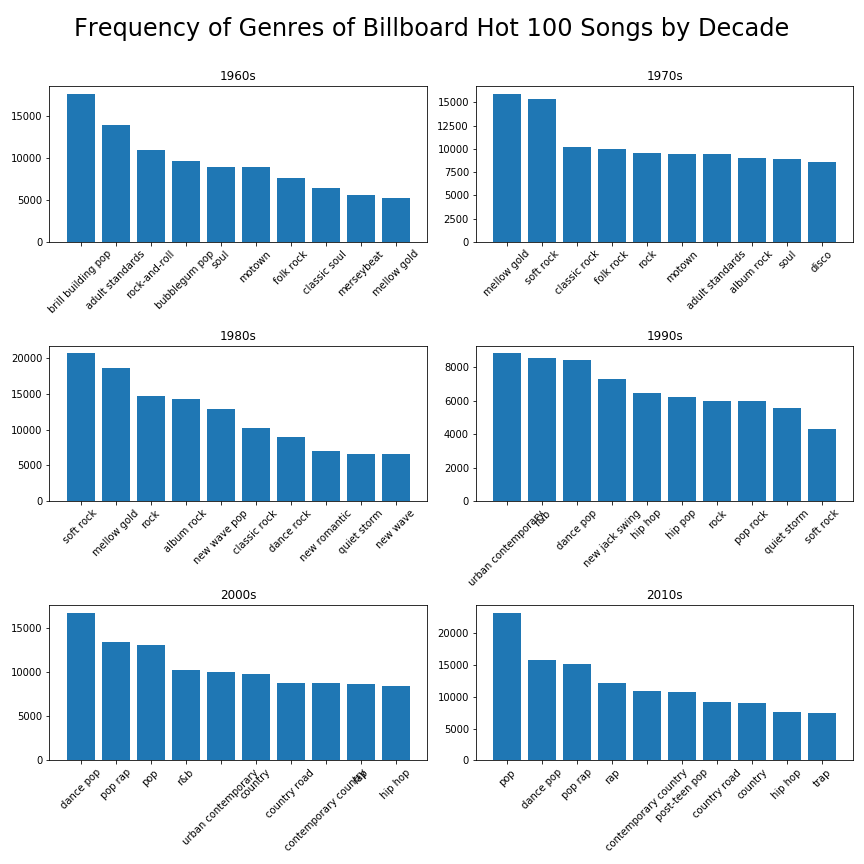
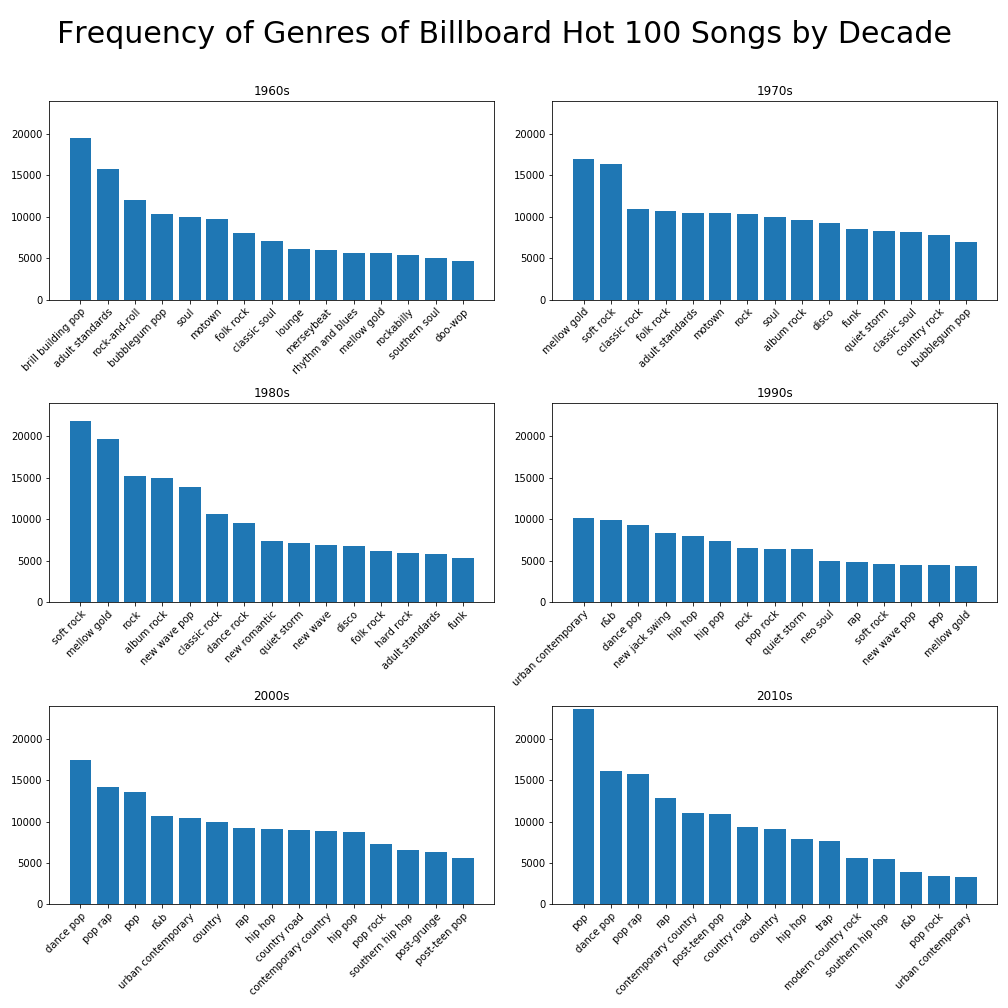
fixed histograms and readme

diff --git a/spotify-billboard-analysis.py b/spotify-billboard-analysis.py
@@ -2,7 +2,7 @@ import numpy as np
 import pandas as pd
 import matplotlib.pyplot as plt
 
-# Import csvs and remove unnecessary columns
+# Import csvs and remove null rows and unnecessary columns
 weeks = pd.read_csv("data/hot-stuff.csv", converters={'WeekID': lambda d: pd.to_datetime(d, \
                     format="%m/%d/%Y", errors="coerce")})
 weeksFilter = ['url', 'Instance', 'Previous Week Position', 'Peak Position',
@@ -12,6 +12,7 @@ weeks.drop(weeksFilter, axis=1, inplace=True)
 features = pd.read_csv("data/hot-100-audio-features.csv", converters={'spotify_genre':
                         lambda s: s[1:-1].split(', ')}, encoding="latin-1")
 features['spotify_genre'] = features['spotify_genre'].apply(lambda l: [s[1:-1] for s in l])
+features.dropna(subset=['spotify_genre'])
 featuresFilter = ['spotify_track_id', 'spotify_track_preview_url', 'spotify_track_album',
                   'spotify_track_popularity', 'key', 'mode', 'time_signature']
 features.drop(featuresFilter, axis=1, inplace=True)
@@ -44,33 +45,37 @@ joined = weeks.merge(features, on='SongID')
 joined.to_csv("data/joined.csv", index=False)
 
 featureGenres = features.explode('spotify_genre')
-featureGenres = featureGenres[featureGenres.spotify_genre != ''].dropna()
+featureGenres = featureGenres[featureGenres.spotify_genre != '']
 
 joinedGenres = joined.explode('spotify_genre')
-joinedGenres = joinedGenres[joinedGenres.spotify_genre != ''].dropna()
+joinedGenres = joinedGenres[joinedGenres.spotify_genre != '']
 
 
 # Genre histogram
 genresJoined = joinedGenres.groupby(['spotify_genre'])['SongID'].count().reset_index() \
                     .sort_values(by=['SongID'], ascending=False)
-fig, ax = plt.subplots(figsize=(12, 4))
-ax.bar(range(30), genresJoined['SongID'].iloc[0:30])
-ax.set_xticks(range(30))
-ax.set_xticklabels(genresJoined['spotify_genre'][0:30], rotation=45)
+fig, ax = plt.subplots(figsize=(12, 6))
+ax.bar(np.arange(30), genresJoined['SongID'].iloc[0:30])
+ax.set_xticks(np.arange(30))
+ax.set_xticklabels(genresJoined['spotify_genre'][0:30], rotation=45, ha="right", rotation_mode="anchor")
 ax.set_xlabel("Genre")
+fig.tight_layout()
 fig.suptitle("Frequency of Genres of Billboard Hot 100 Songs", fontsize=20)
+fig.subplots_adjust(top=0.9)
 fig.savefig("images/genresJoined.png")
 
 
 # Genre histogram (Unique)
 genres = featureGenres.groupby(['spotify_genre'])['SongID'].count().reset_index() \
                     .sort_values(by=['SongID'], ascending=False)
-fig, ax = plt.subplots(figsize=(12, 4))
-ax.bar(range(30), featureGenres['SongID'].iloc[0:30])
-ax.set_xticks(range(30))
-ax.set_xticklabels(featureGenres['spotify_genre'][0:30], rotation=45)
+fig, ax = plt.subplots(figsize=(12, 6))
+ax.bar(np.arange(30), genres['SongID'].iloc[0:30])
+ax.set_xticks(np.arange(30))
+ax.set_xticklabels(genres['spotify_genre'][0:30], rotation=45, ha="right", rotation_mode="anchor")
 ax.set_xlabel("Genre")
+fig.tight_layout()
 fig.suptitle("Frequency of Genres of Billboard Hot 100 Songs (Unique)", fontsize=20)
+fig.subplots_adjust(top=0.9)
 fig.savefig("images/genres.png")
 
 
@@ -79,23 +84,24 @@ genresJoinedDecade = joinedGenres.groupby(['spotify_genre', 'Decade'])['SongID']
                     .sort_values(by=['SongID'], ascending=False)
 decades = ["1960s", "1970s", "1980s", "1990s", "2000s","2010s"]
 i = 0
-fig, axs = plt.subplots(3, 2, figsize=(12, 12))
+fig, axs = plt.subplots(3, 2, figsize=(14, 14))
 for ax in axs.flat:
     temp = genresJoinedDecade.loc[genresJoinedDecade['Decade'] == decades[i]]
-    ax.bar(range(10), temp['SongID'].iloc[0:10])
-    ax.set_xticks(range(10))
-    ax.set_xticklabels(temp['spotify_genre'][0:10], rotation=45)
+    ax.bar(np.arange(15), temp['SongID'].iloc[0:15])
+    ax.set_ylim((0, 24000))
+    ax.set_xticks(np.arange(15))
+    ax.set_xticklabels(temp['spotify_genre'][0:15], rotation=45, ha="right", rotation_mode="anchor")
     ax.set_title(decades[i])
     i += 1
 fig.tight_layout()
-fig.suptitle("Frequency of Genres of Billboard Hot 100 Songs by Decade", fontsize=24)
+fig.suptitle("Frequency of Genres of Billboard Hot 100 Songs by Decade", fontsize=30)
 fig.subplots_adjust(top=0.9)
 fig.savefig("images/genresJoinedDecade.png")
 
 
 # Mean of each numerical metric by year
 numericalsYear = [joined.columns.tolist()[1]] + joined.columns.tolist()[11:21]
-numericalMetricsYear = joined[numericalsYear].groupby(['Year']).mean().reset_index()
+numericalMetricsYear = joined[numericalsYear].groupby(['Year']).aggregate(np.nanmean).reset_index()
 numericalMetricsYear = numericalMetricsYear.rename(columns={'spotify_track_duration_ms': 'trackduration'})
 for metric in numericalMetricsYear.columns.tolist()[1:]:
     fig, ax = plt.subplots()
@@ -103,5 +109,21 @@ for metric in numericalMetricsYear.columns.tolist()[1:]:
     ax.set_xlabel("Year")
     fig.suptitle("Mean {} of Billboard Hot 100 Songs by Year".format(metric.capitalize()), fontsize=12)
     fig.savefig("images/{}Year.png".format(metric))
+
+
+# Mean of each numerical metric by decade
+numericalsDecade = [joined.columns.tolist()[2]] + joined.columns.tolist()[11:21]
+numericalMetricsDecade = joined[numericalsDecade].groupby(['Decade']).aggregate(np.nanmean).reset_index()
+numericalMetricsDecade = numericalMetricsDecade.rename(columns={'spotify_track_duration_ms': 'trackduration'})
+for metric in numericalMetricsDecade.columns.tolist()[1:]:
+    fig, ax = plt.subplots()
+    ax.bar(np.arange(7), numericalMetricsDecade[metric])
+    ax.set_xticks(np.arange(7))
+    ax.set_xticklabels(numericalMetricsDecade['Decade'], rotation=90)
+    ax.set_xlabel("Decade")
+    fig.suptitle("Mean {} of Billboard Hot 100 Songs by Year".format(metric.capitalize()), fontsize=12)
+    fig.savefig("images/{}Decade.png".format(metric))
+
+
 
 

diff --git a/README.md b/README.md
@@ -4,7 +4,7 @@
 
 ### Description of Dataset
 
-This dataset contains information about the Billboard Hot 100 Songs chart ranging from August 1958 to January 2020.  The data was taken from data.world.  The first data table contains data about the position of each song on the chart over the time period and has 320,000 rows.  The second data table contains data about the features of each song and has 28,500 rows.
+This dataset contains information about the Billboard Hot 100 Songs chart ranging from August 1958 to January 2020.  The data was taken from data.world.  The first data table (hot-stuff.csv, also known as weeks) contains data about the position of each song on the chart over the time period and has 320,000 rows.  The second data table (hot-100-audio features.csv, also known as features) contains data about the features of each song and has 28,500 rows.
 
 &nbsp;
 
@@ -42,7 +42,14 @@ This dataset contains information about the Billboard Hot 100 Songs chart rangin
 * **Tempo:** The overall estimated speed of a track in beats per minute (BPM).  Corresponds to the average beat duration within the track.
 * **Time signature:** An estimate of how many beats are in each measure.  Also known as meter.
 
-The columns 'url', 'Instance', 'Previous Week Position', 'Peak Position', 'Weeks on Chart', 'spotify_track_id', 'spotify_track_preview_url',
-'spotify_track_album', and 'spotify_track_popularity' were dropped as they were not needed for this analysis.
+The columns "url", "Instance", "Previous Week Position", "Peak Position", "Weeks on Chart", "spotify_track_id", "spotify_track_preview_url", 
+"spotify_track_album", and "spotify_track_popularity" were dropped as they were not needed for this analysis.
+
+The WeekID from the weeks table was parsed into a datetime during the import.  Two new columns named "Year" and "Decade" were created; Year is the year gathered from the datetime and Decade is a string that describes the decade of that year, obtained by passing the year into a custom-made function.
+
+Since the spotify genre column in the features table was in the form of a list, the dataframe was stripped of its endings, expanded with explode(), and stripped again of quotes in order to analyze the individual genres of each song.
 
 &nbsp;
+
+### Plots
+
